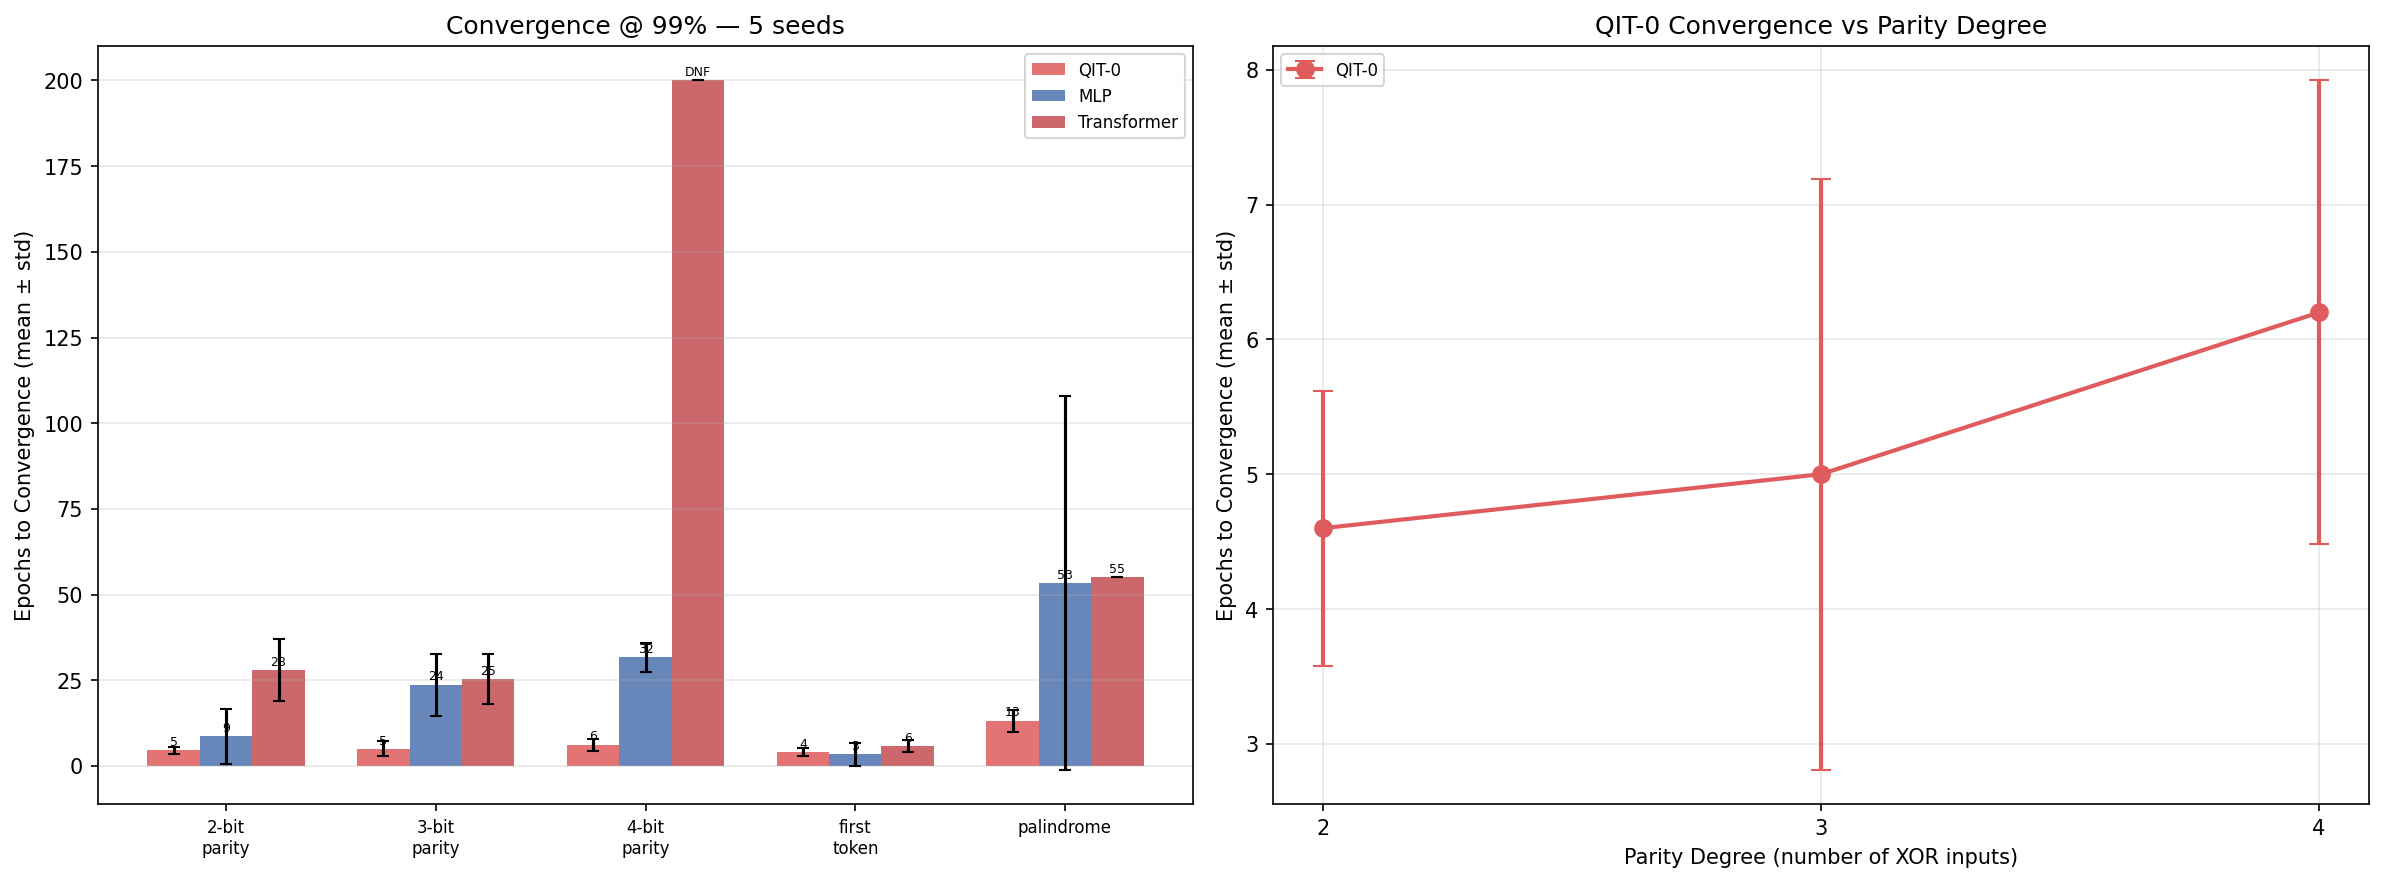
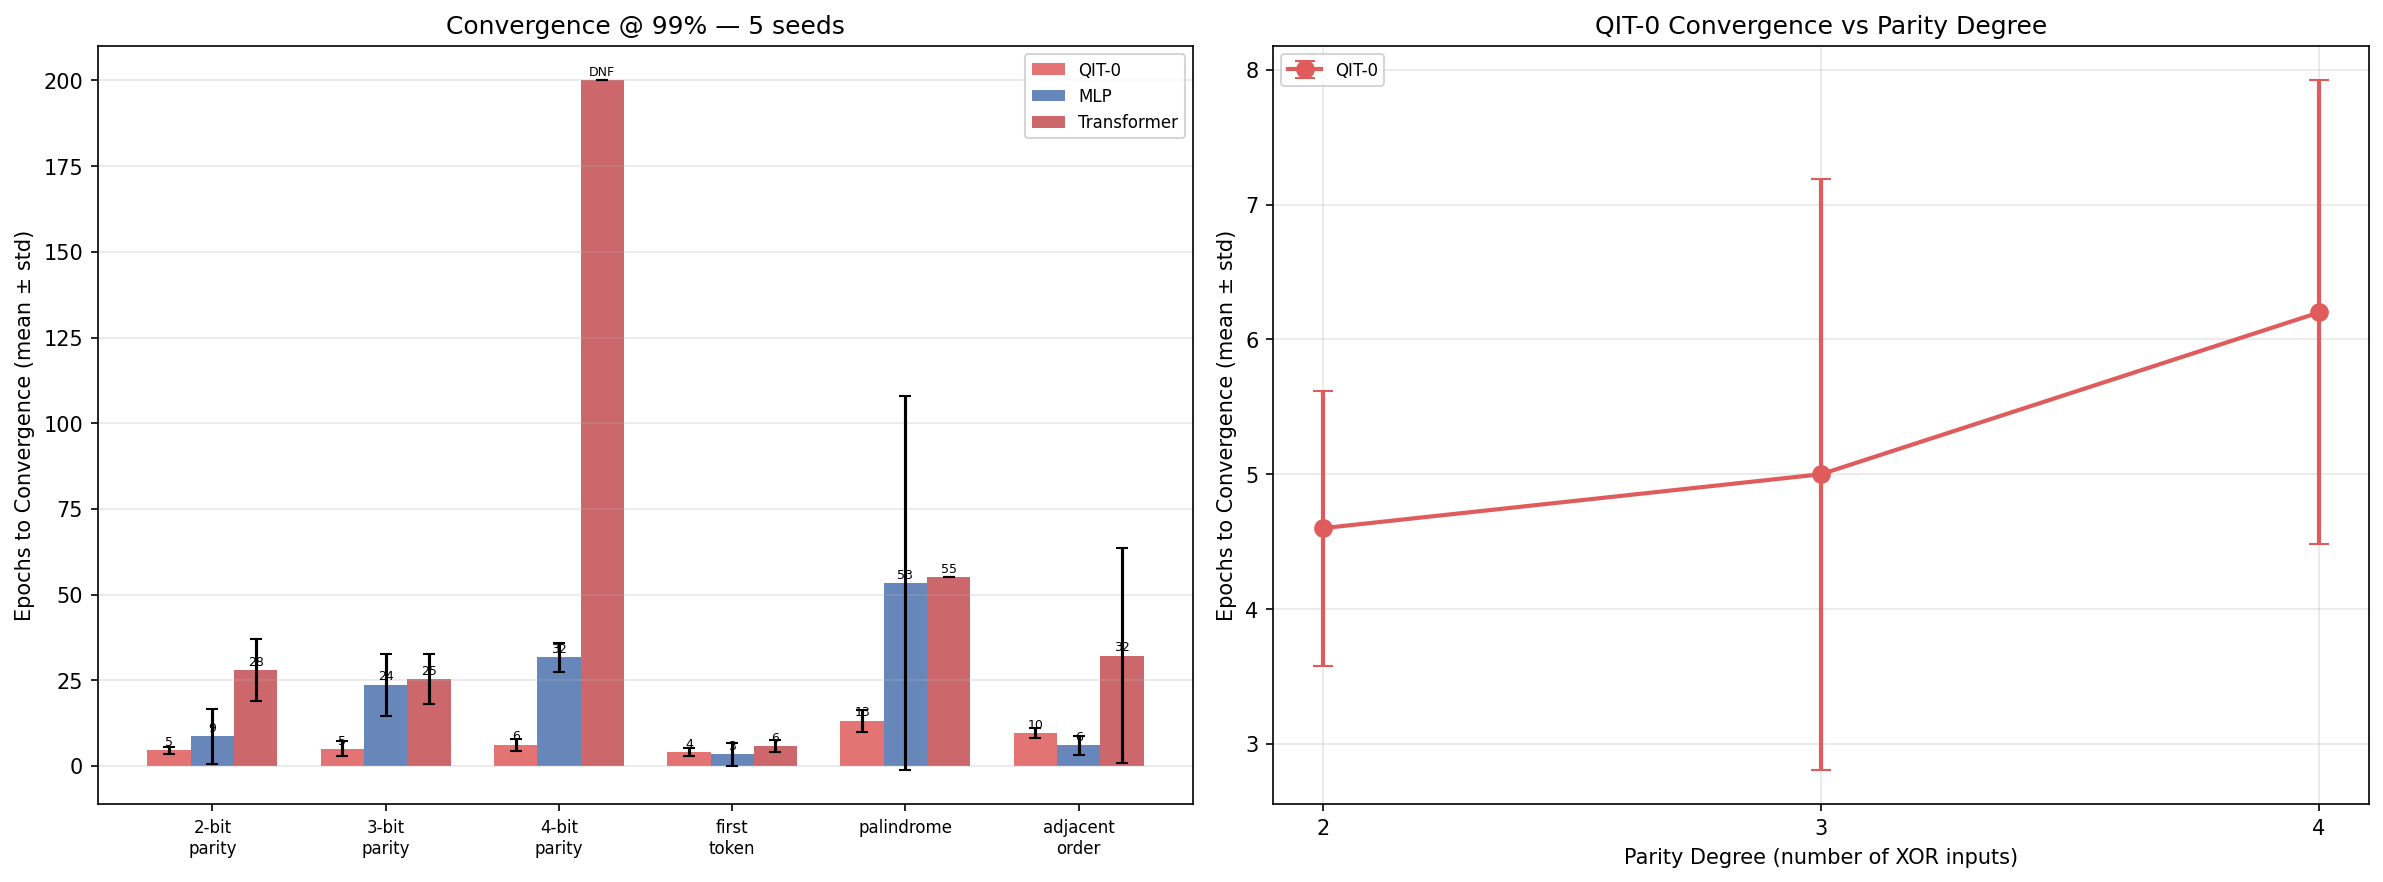
Add adjacent order positional task to close DA-C2 (set classifier objection)
New AdjacentOrderDataset (label = x[0]=0 AND x[1]=1) has 14 multiset-conflicting
pairs — a set-invariant model cannot solve it. QIT-0 converges 5/5 seeds at
9.6±1.4 epochs, comparable to MLP (6.0±2.8), confirming QIT uses positional
structure but gains no F2-advantage on non-XOR tasks. Closes the DA unexamined
premise raised in peer review round 1.

diff --git a/tasks/structured_tasks.py b/tasks/structured_tasks.py
@@ -96,6 +96,27 @@ class SequenceReversalDataset(Dataset):
         return self.X[idx], self.y[idx]
 
 
+class AdjacentOrderDataset(Dataset):
+    """
+    Label = 1 iff x[0]=0 AND x[1]=1 (the first token is strictly less than the second).
+    Strictly positional: swapping x[0] and x[1] flips the label for all 8 inputs where
+    x[0] != x[1]. A set-invariant model cannot solve this because [0,1,*,*] and [1,0,*,*]
+    share the same token multiset yet have opposite labels.
+    16 inputs; 4 positive / 12 negative (75% majority baseline).
+    """
+
+    def __init__(self, n_tokens: int = 4):
+        seqs = list(itertools.product([0, 1], repeat=n_tokens))
+        self.X = torch.tensor(seqs, dtype=torch.long)
+        self.y = ((self.X[:, 0] == 0) & (self.X[:, 1] == 1)).long()
+
+    def __len__(self) -> int:
+        return len(self.X)
+
+    def __getitem__(self, idx: int) -> tuple[torch.Tensor, torch.Tensor]:
+        return self.X[idx], self.y[idx]
+
+
 # ── DataLoader factories ───────────────────────────────────────────────────────
 
 def make_xor_positions_loaders(
@@ -126,6 +147,16 @@ def make_sequence_reversal_loaders(
     batch_size: int = 8,
 ) -> tuple[DataLoader, DataLoader]:
     ds = SequenceReversalDataset(n_tokens=n_tokens)
+    train_loader = DataLoader(ds, batch_size=batch_size, shuffle=True)
+    test_loader  = DataLoader(ds, batch_size=batch_size, shuffle=False)
+    return train_loader, test_loader
+
+
+def make_adjacent_order_loaders(
+    n_tokens: int = 4,
+    batch_size: int = 8,
+) -> tuple[DataLoader, DataLoader]:
+    ds = AdjacentOrderDataset(n_tokens=n_tokens)
     train_loader = DataLoader(ds, batch_size=batch_size, shuffle=True)
     test_loader  = DataLoader(ds, batch_size=batch_size, shuffle=False)
     return train_loader, test_loader

diff --git a/benchmarks/compare_tasks.py b/benchmarks/compare_tasks.py
@@ -37,6 +37,7 @@ from tasks.structured_tasks import (
     make_xor_positions_loaders,
     make_partial_parity_loaders,
     make_sequence_reversal_loaders,
+    make_adjacent_order_loaders,
 )
 
 
@@ -214,6 +215,7 @@ def main():
         ("4-bit full parity",                     *make_memorization_loaders(N_TOKENS, BATCH_SIZE)),
         ("first-token detection (x[0])",           *make_first_token_loaders(N_TOKENS, BATCH_SIZE)),
         ("palindrome detection",                   *make_sequence_reversal_loaders(N_TOKENS, BATCH_SIZE)),
+        ("adjacent order (x[0]<x[1])",             *make_adjacent_order_loaders(N_TOKENS, BATCH_SIZE)),
     ]
 
     all_results: dict[str, dict[str, ModelResult]] = {}
@@ -310,6 +312,7 @@ def _plot_task_variety(all_results: dict) -> None:
         "4-bit\nparity",
         "first\ntoken",
         "palindrome",
+        "adjacent\norder",
     ]
     ax.set_xticks(x)
     ax.set_xticklabels(short_names, fontsize=8)
